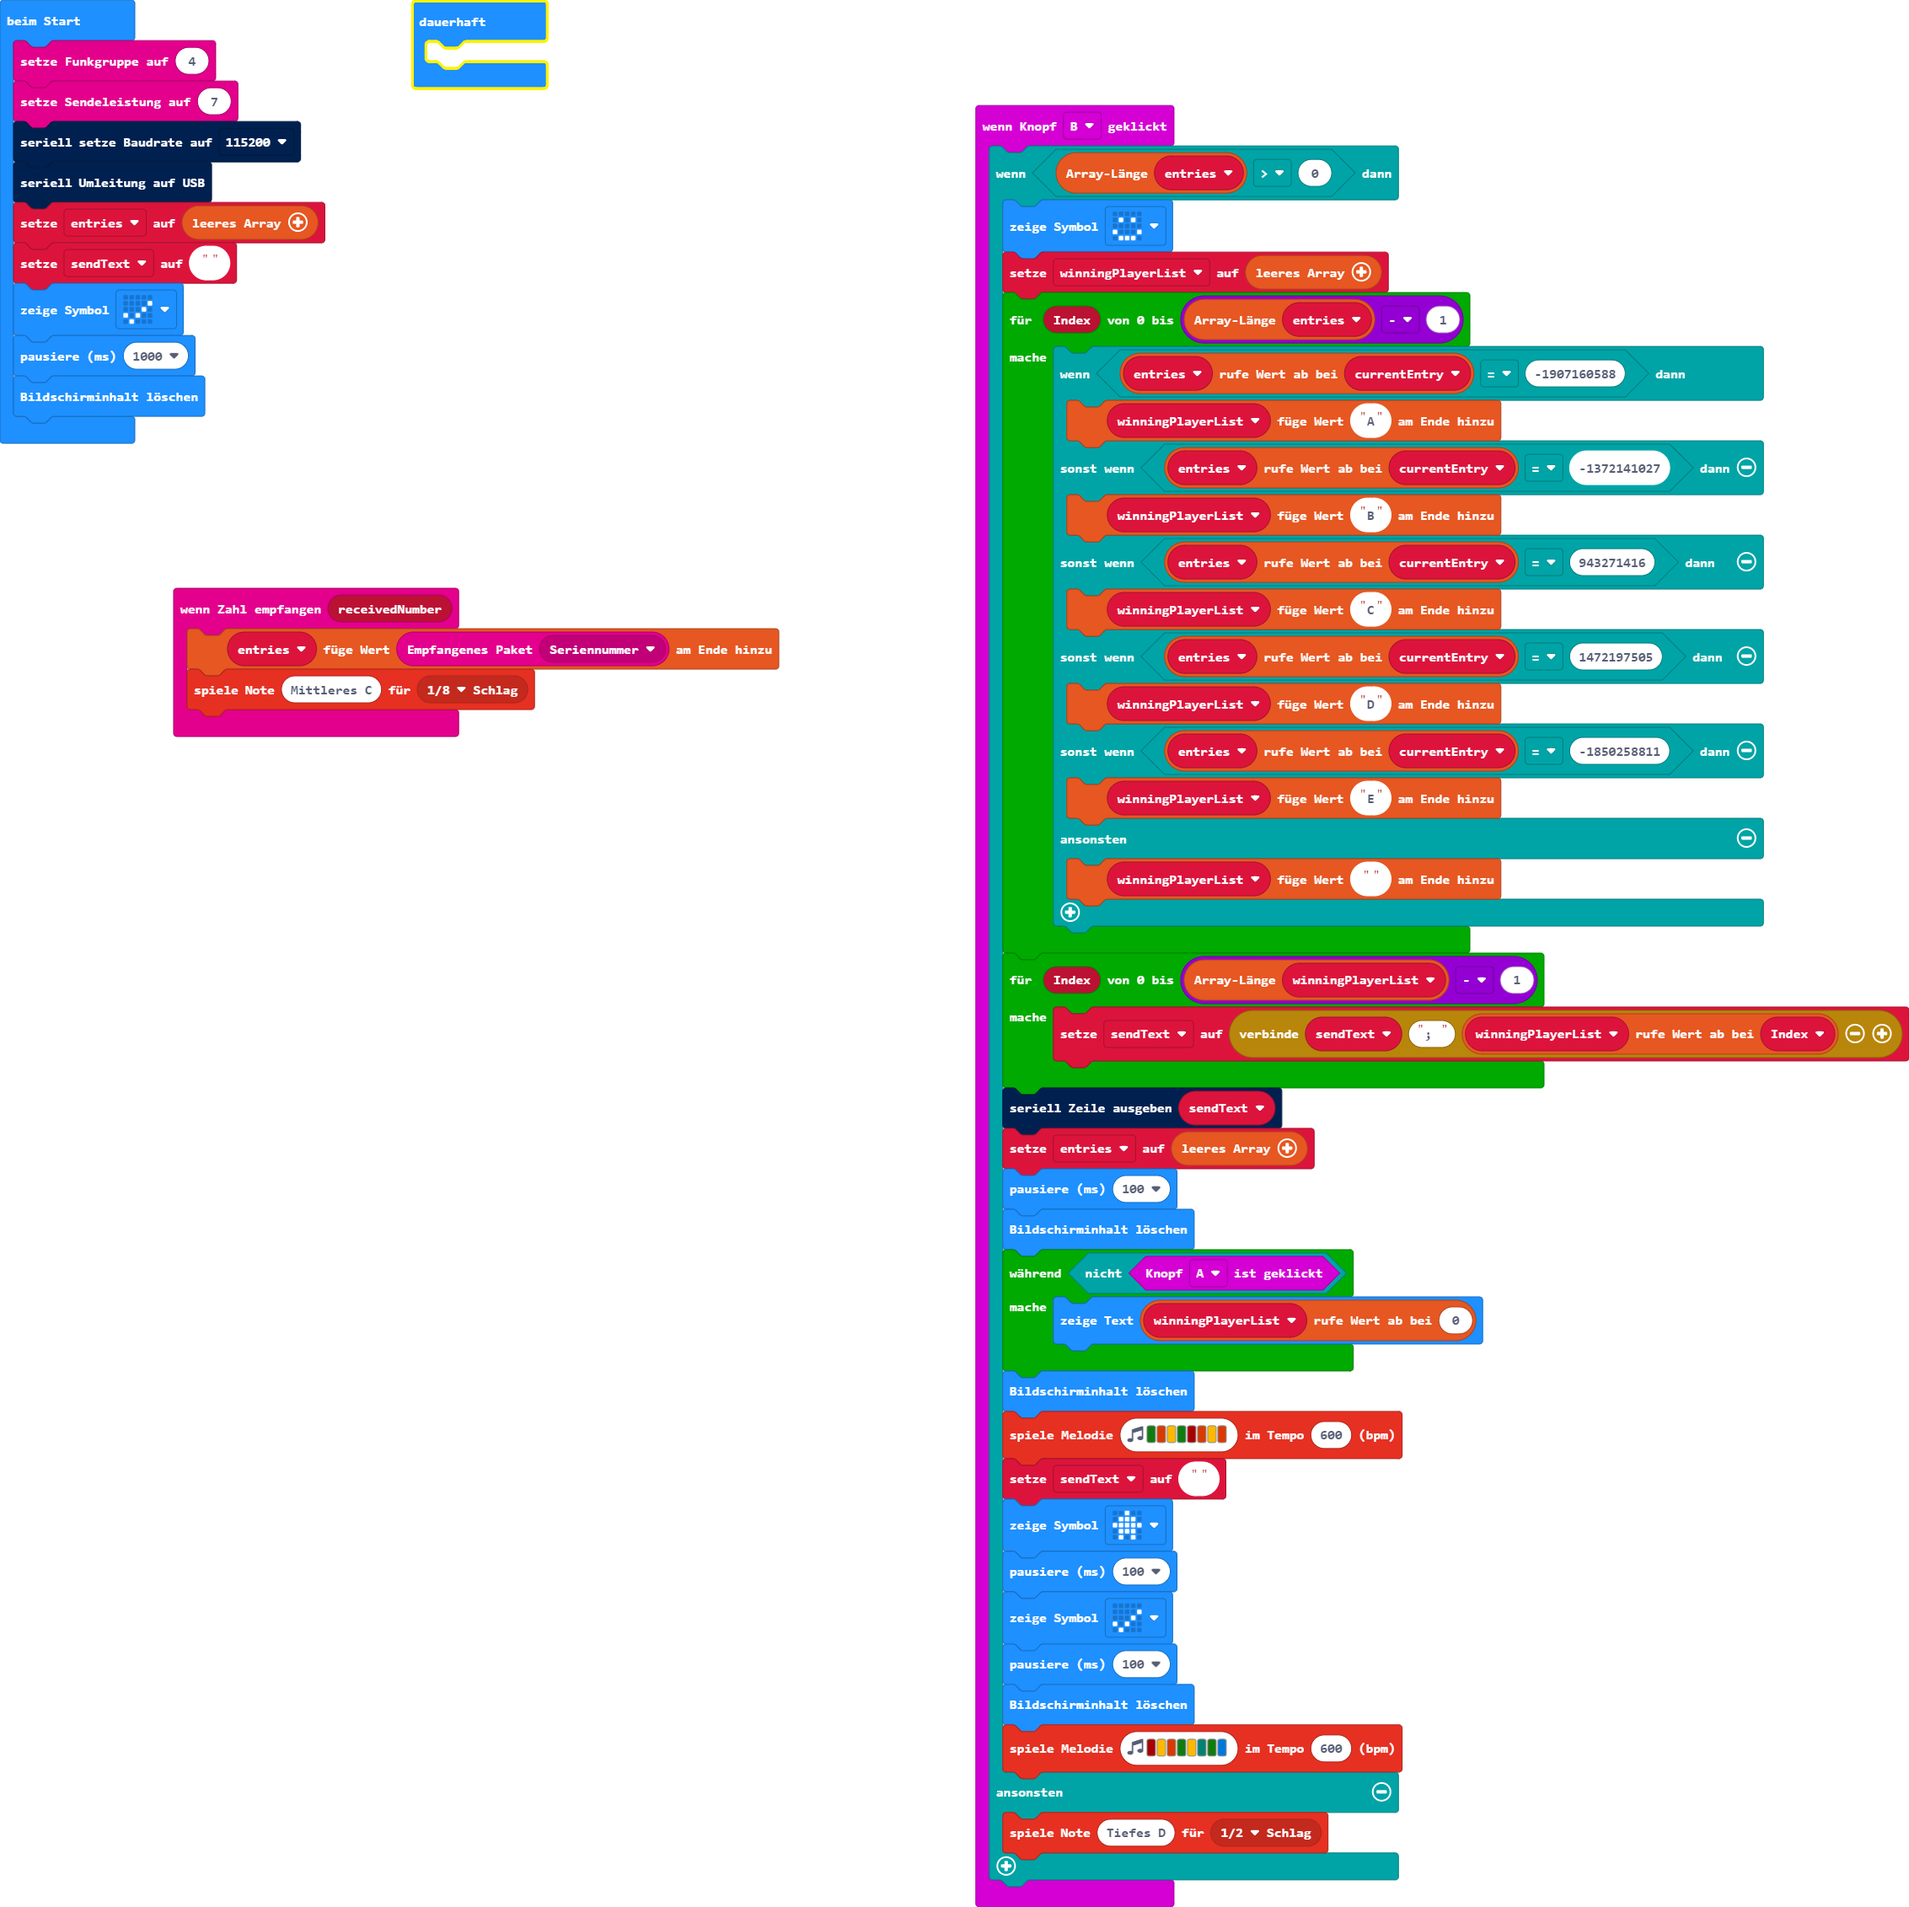
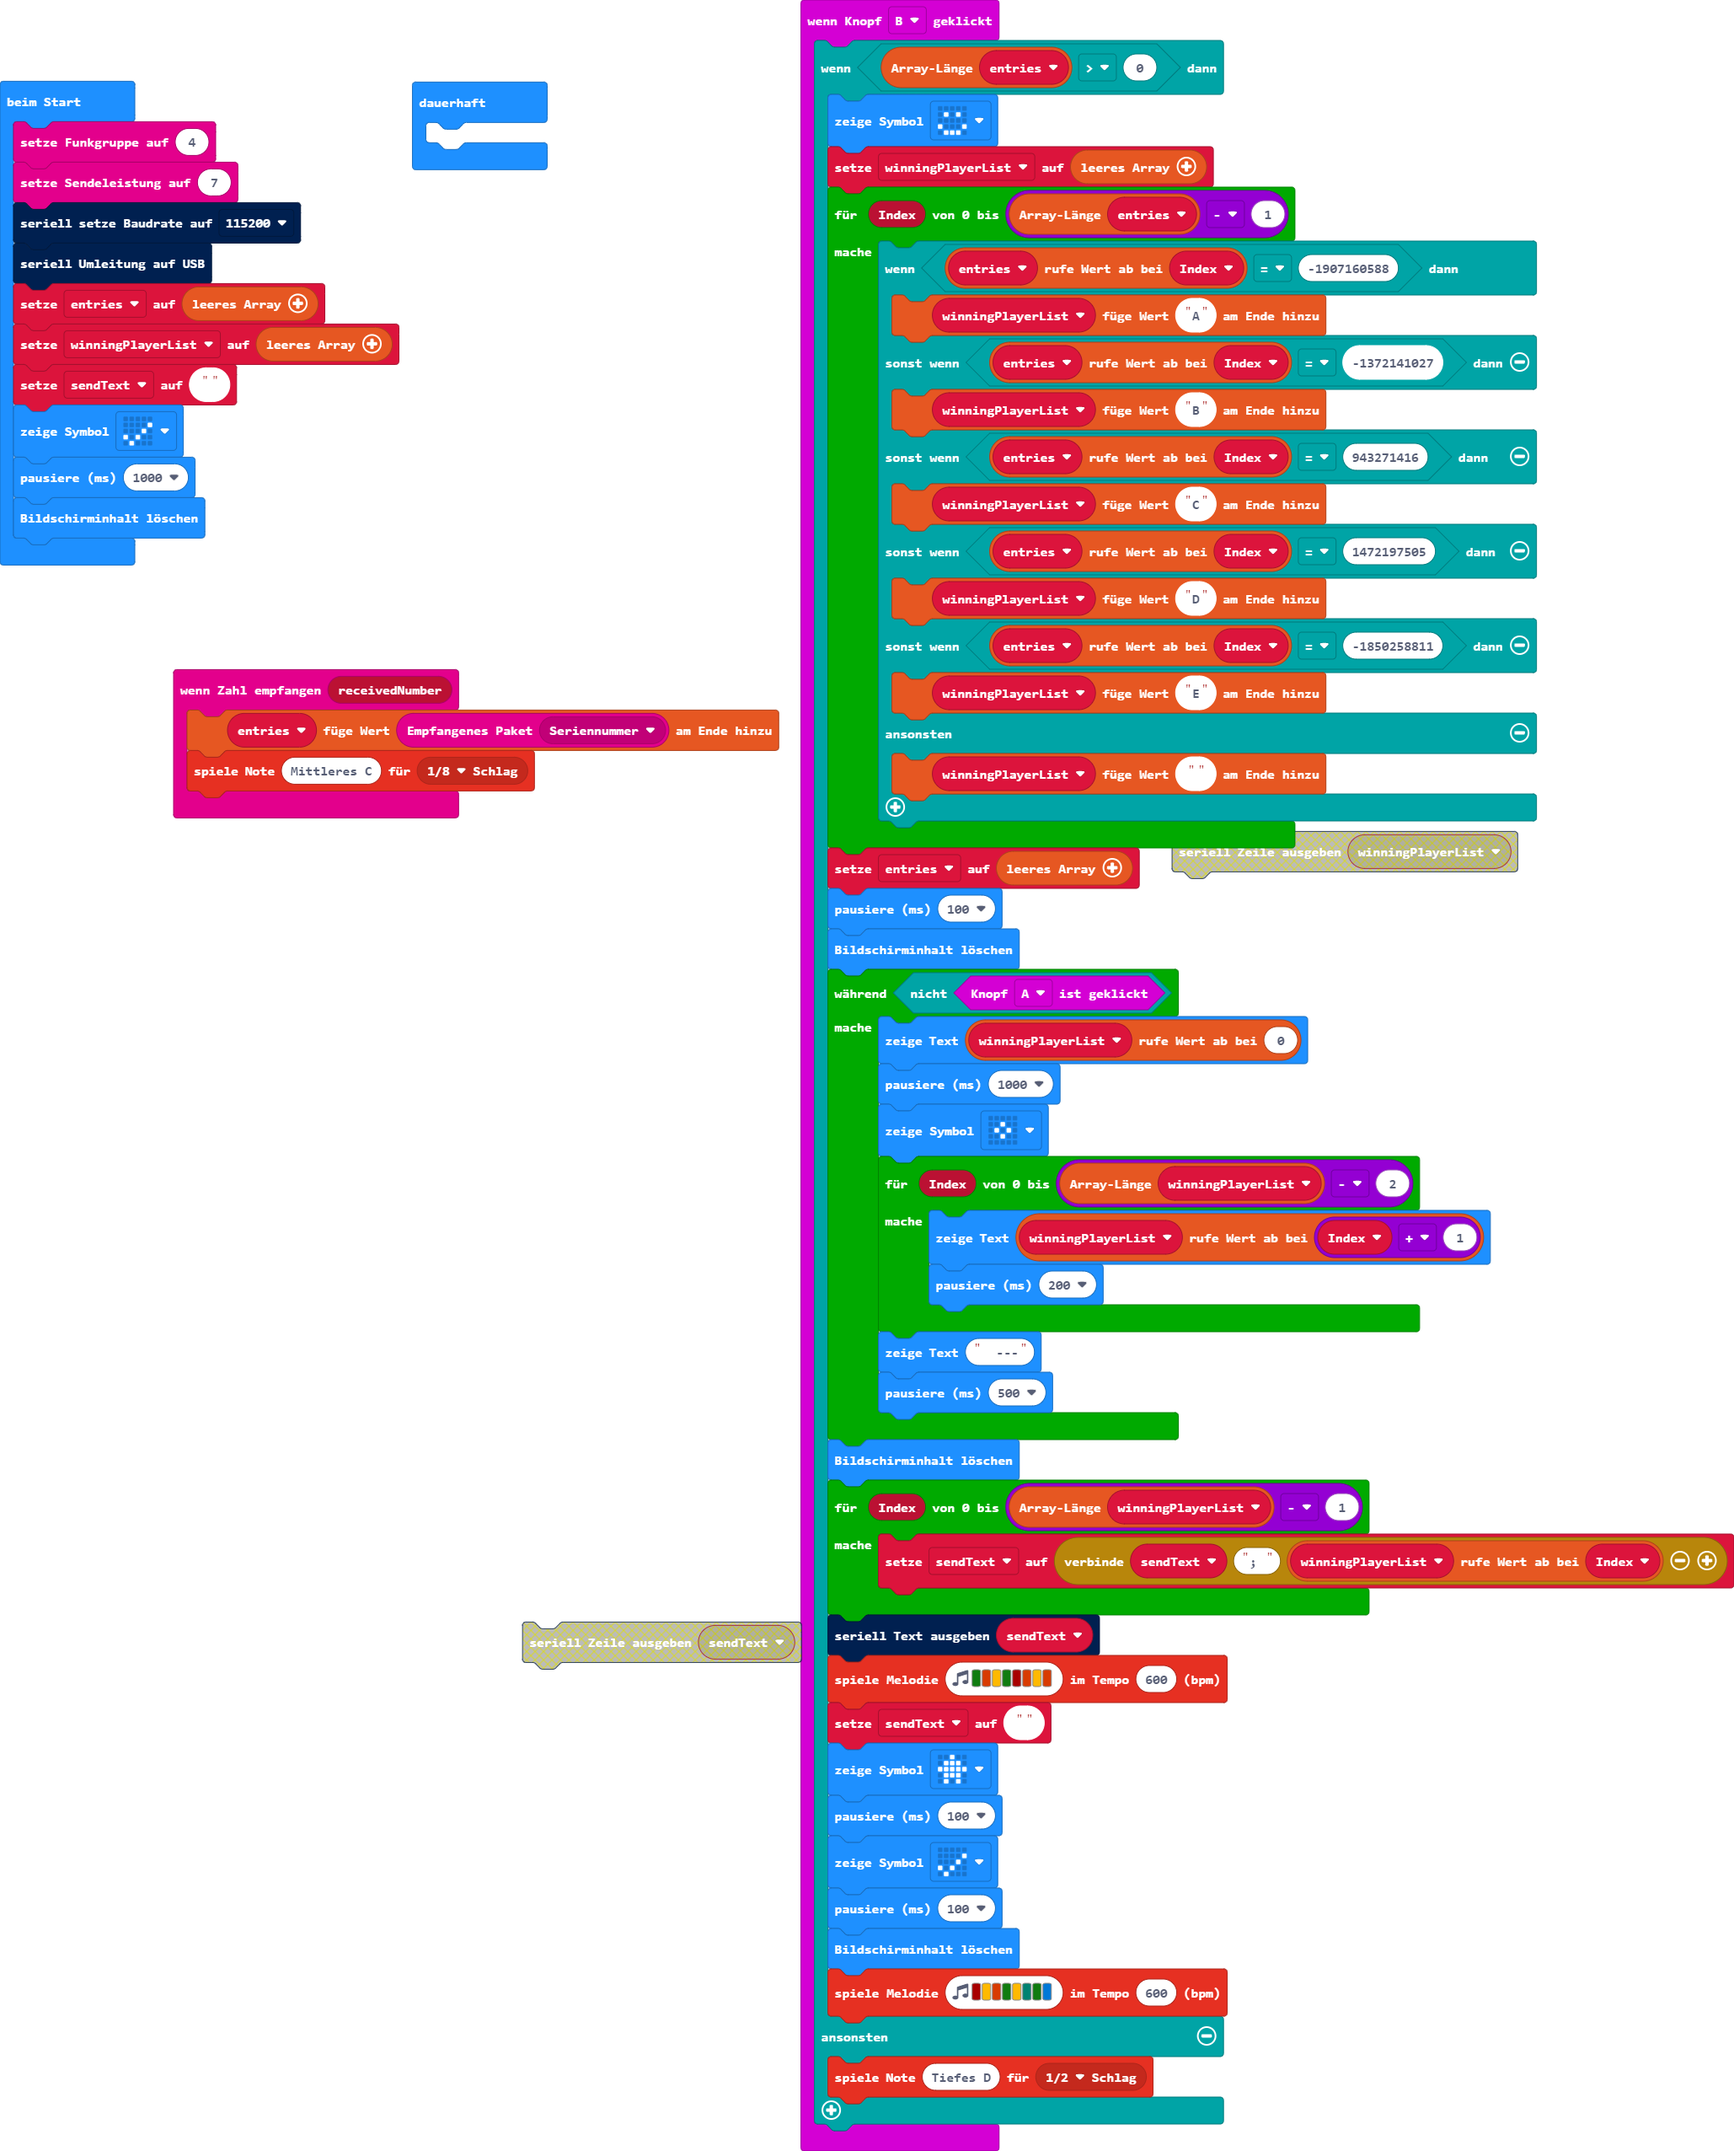
working with correct order of winners. No serial output working.

diff --git a/main.ts b/main.ts
@@ -10,32 +10,39 @@ input.onButtonPressed(Button.B, function () {
         basic.showIcon(IconNames.Happy)
         winningPlayerList = []
         for (let Index = 0; Index <= entries.length - 1; Index++) {
-            let currentEntry = 0
-            if (entries[currentEntry] == -1907160588) {
+            if (entries[Index] == -1907160588) {
                 winningPlayerList.push("A")
-            } else if (entries[currentEntry] == -1372141027) {
+            } else if (entries[Index] == -1372141027) {
                 winningPlayerList.push("B")
-            } else if (entries[currentEntry] == 943271416) {
+            } else if (entries[Index] == 943271416) {
                 winningPlayerList.push("C")
-            } else if (entries[currentEntry] == 1472197505) {
+            } else if (entries[Index] == 1472197505) {
                 winningPlayerList.push("D")
-            } else if (entries[currentEntry] == -1850258811) {
+            } else if (entries[Index] == -1850258811) {
                 winningPlayerList.push("E")
             } else {
                 winningPlayerList.push("")
             }
         }
-        for (let Index = 0; Index <= winningPlayerList.length - 1; Index++) {
-            sendText = "" + sendText + "; " + winningPlayerList[Index]
-        }
-        serial.writeLine(sendText)
         entries = []
         basic.pause(100)
         basic.clearScreen()
         while (!(input.buttonIsPressed(Button.A))) {
             basic.showString("" + (winningPlayerList[0]))
+            basic.pause(1000)
+            basic.showIcon(IconNames.SmallDiamond)
+            for (let Index = 0; Index <= winningPlayerList.length - 2; Index++) {
+                basic.showString("" + (winningPlayerList[Index + 1]))
+                basic.pause(200)
+            }
+            basic.showString("  ---")
+            basic.pause(500)
         }
         basic.clearScreen()
+        for (let Index = 0; Index <= winningPlayerList.length - 1; Index++) {
+            sendText = "" + sendText + "; " + winningPlayerList[Index]
+        }
+        serial.writeString(sendText)
         music.playMelody("G B A G C5 B A B ", 600)
         sendText = ""
         basic.showIcon(IconNames.House)
@@ -48,14 +55,15 @@ input.onButtonPressed(Button.B, function () {
         music.playTone(147, music.beat(BeatFraction.Half))
     }
 })
-let winningPlayerList: string[] = []
 let sendText = ""
+let winningPlayerList: string[] = []
 let entries: number[] = []
 radio.setGroup(4)
 radio.setTransmitPower(7)
 serial.setBaudRate(BaudRate.BaudRate115200)
 serial.redirectToUSB()
 entries = []
+winningPlayerList = []
 sendText = ""
 basic.showIcon(IconNames.Yes)
 basic.pause(1000)
